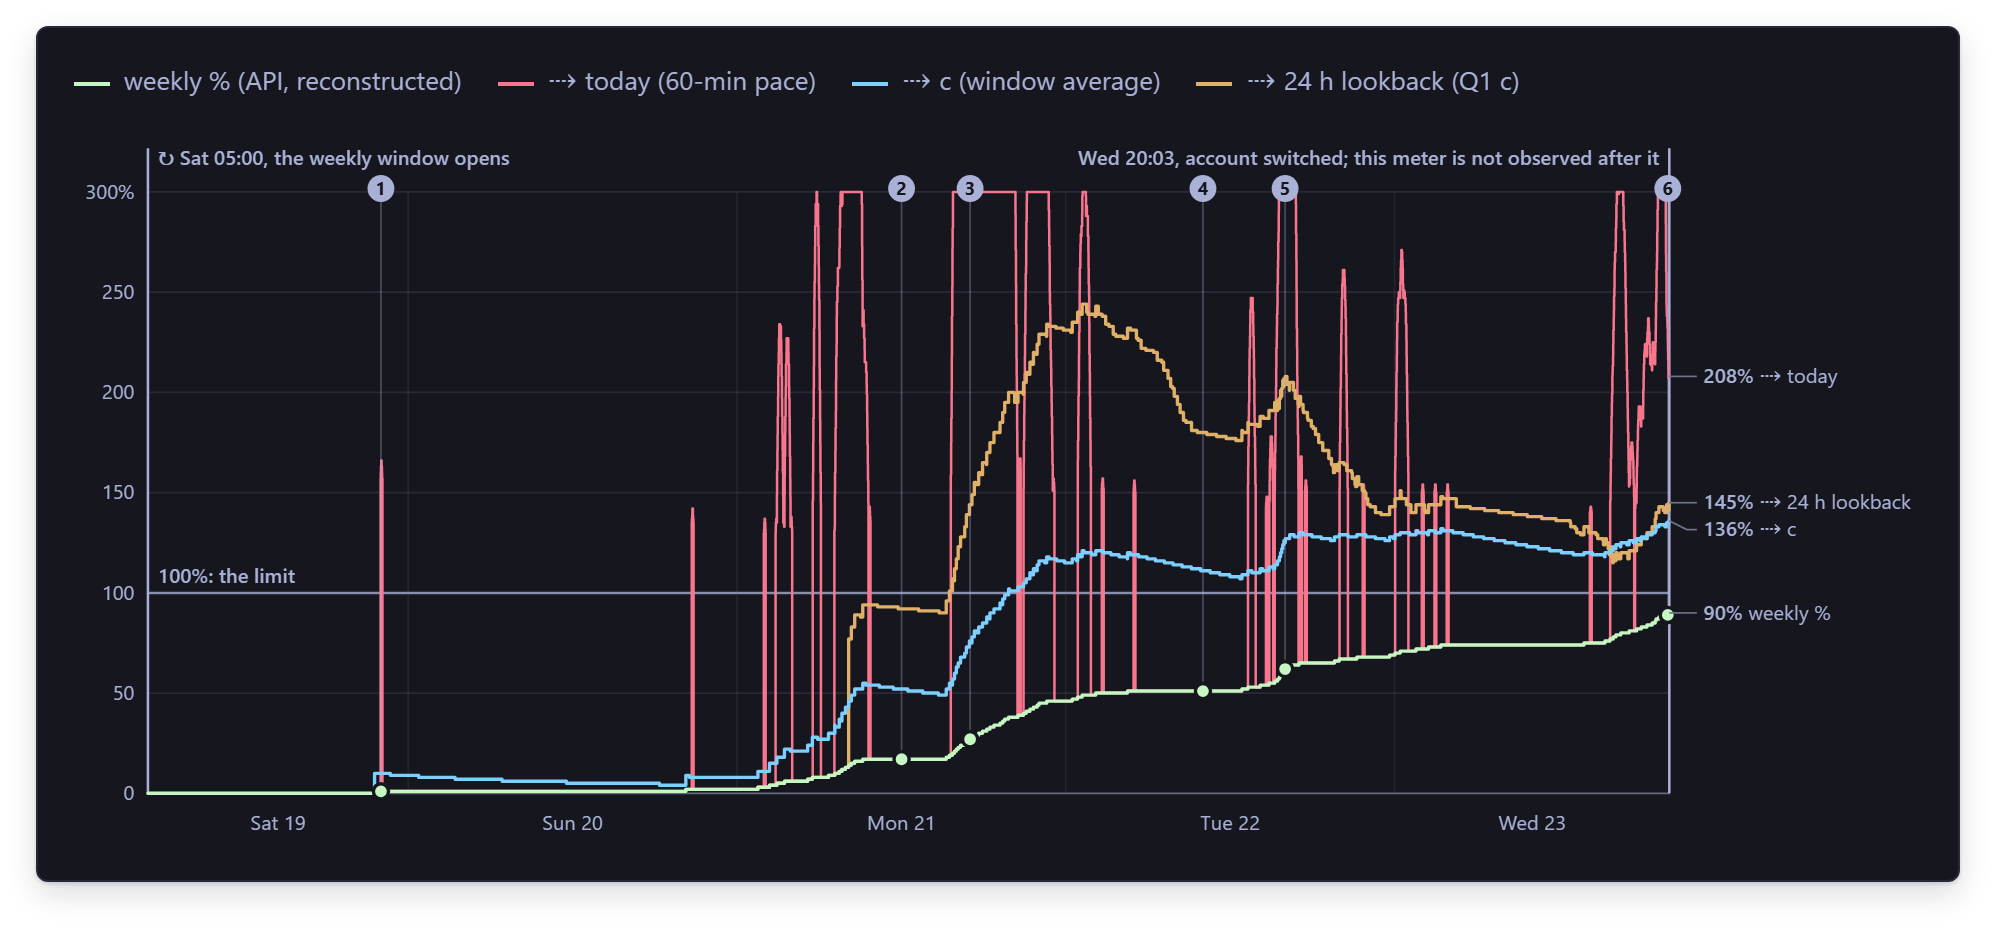
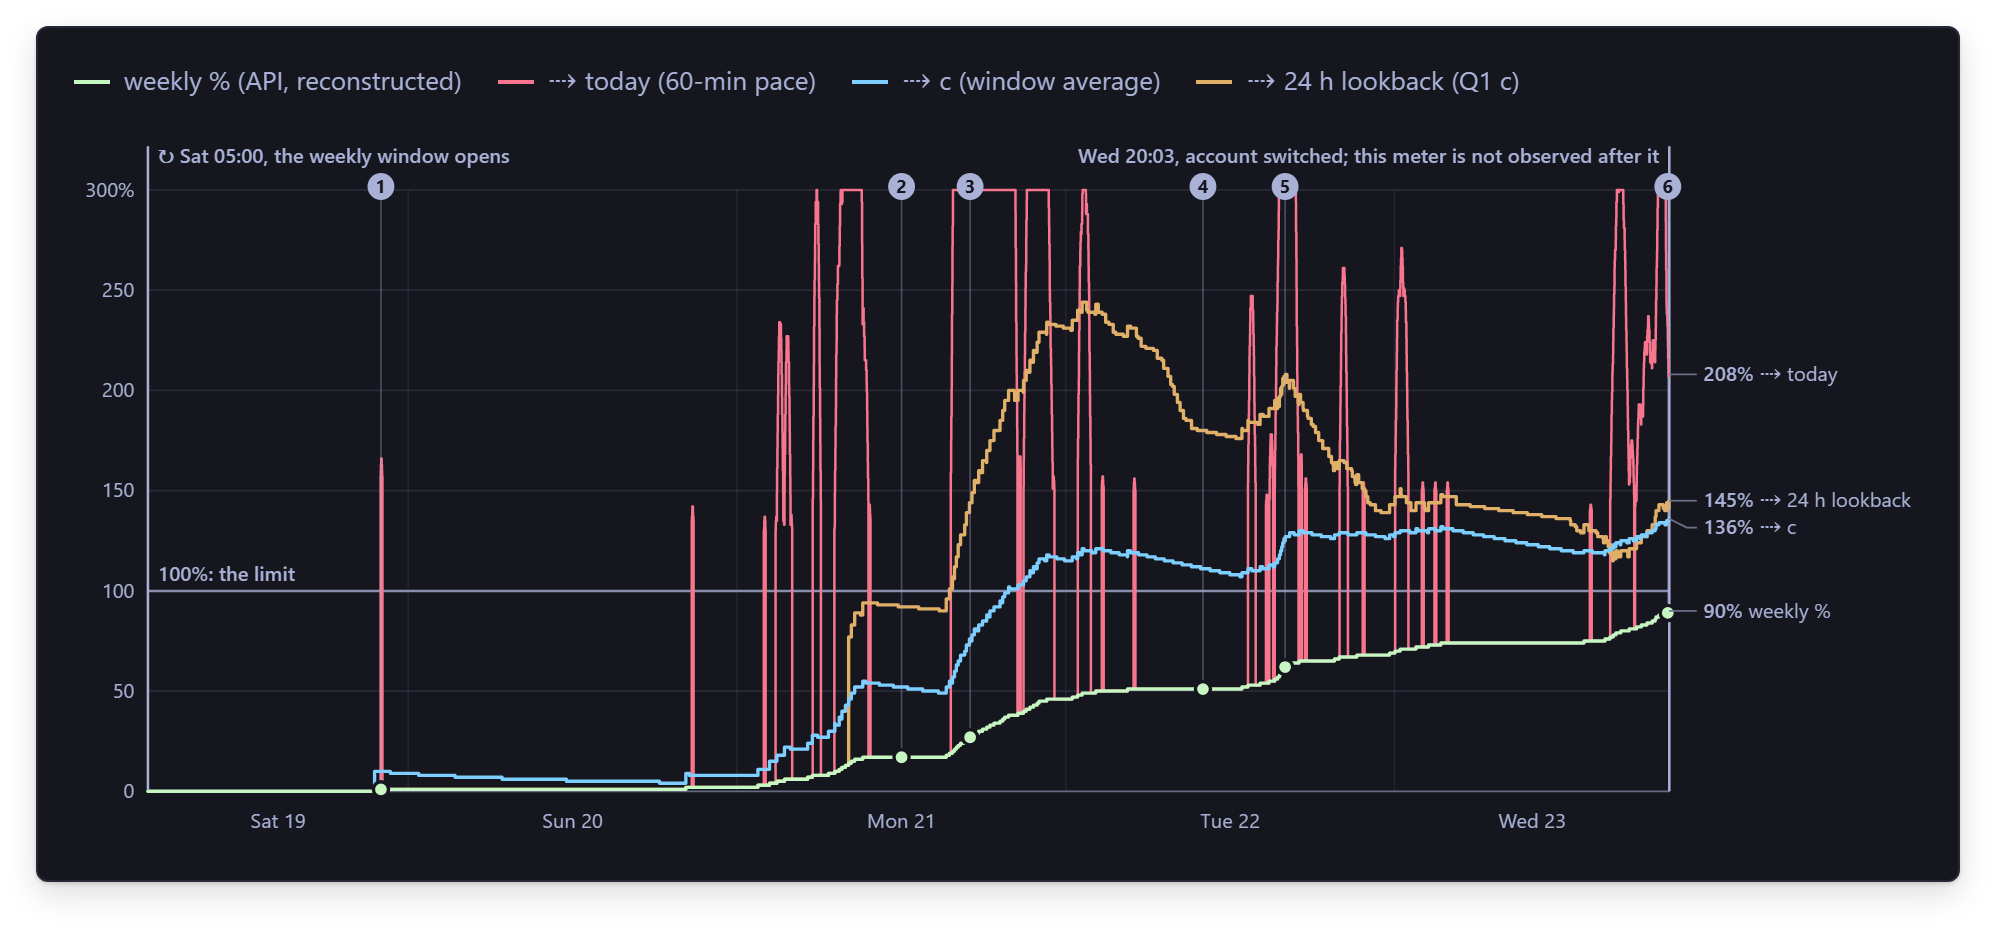
Redraw the decisions-page figure after the relabelling
The week chart is the same, but the new build labels moved it by part
of a pixel on the page, so the capture came out one pixel shorter:
998 x 467 where it was 998 x 468. The other 15 figures are unchanged.

diff --git a/docs/assets/README.md b/docs/assets/README.md
@@ -36,6 +36,6 @@ at that many columns. Sizes are CSS pixels; each PNG has twice as many.
 | [warnings.png](warnings.png) | The three kinds of ⚠ row, in the order they come: a source that failed, in red; a limit this status line does not draw yet, in amber; usage billed beyond the plan, in red and always last. | `every-warning.w120` | 754 x 255 |
 | [sessions.png](sessions.png) | An illustration of three open sessions over five minutes: each render either fetches the usage (only when the shared copy is 50 seconds old or more) or draws the shared copy. | the rule in `GetUsage()`, played out over invented render times | 794 x 283 |
 | [download.png](download.png) | A button: Download for Windows. | the palette: cyan on the terminal ground | 300 x 71 |
-| [decisions-week.png](decisions-week.png) | The week chart from the decisions page: the 7d meter and three ways of forecasting it, minute by minute, from Saturday 05:00 to Wednesday 20:03. | [limits-decisions.html](../design/limits-decisions.html) | 998 x 468 |
+| [decisions-week.png](decisions-week.png) | The week chart from the decisions page: the 7d meter and three ways of forecasting it, minute by minute, from Saturday 05:00 to Wednesday 20:03. | [limits-decisions.html](../design/limits-decisions.html) | 998 x 467 |
 
 The generator rewrites this page on every full run, so make changes in the generator and not here.
